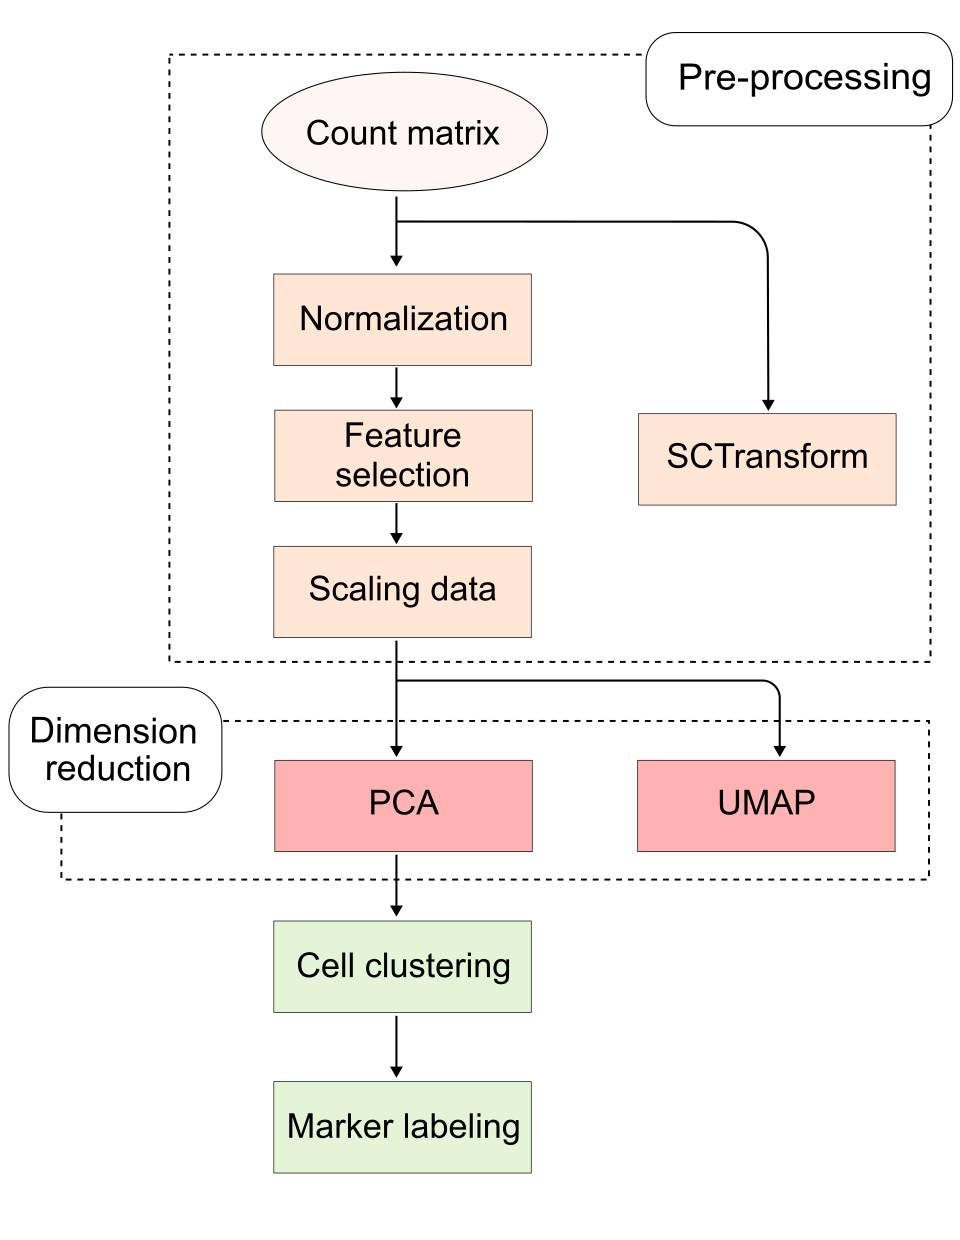
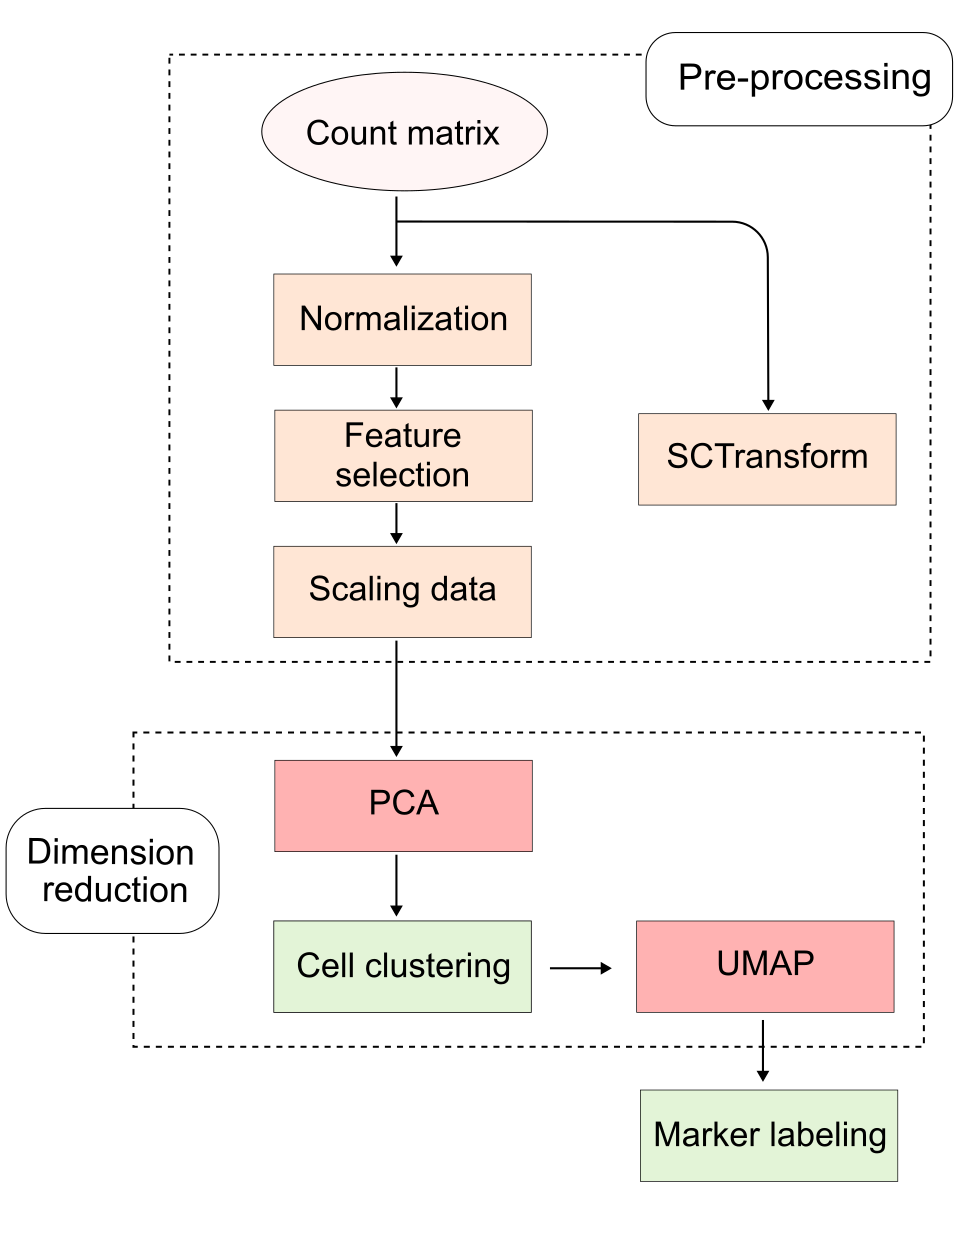
update: tuning content

diff --git a/docs/index.md b/docs/index.md
@@ -5,15 +5,16 @@ description: "Deep dives into Seurat internals"
 
 ## Motivation
 
-[Seurat](https://satijalab.org/seurat/) is a popular standard bioinformatic tool to explore and analyze single cell data. The vignette (tutorial) ["Guided Clustering Tutorial"](https://satijalab.org/seurat/articles/pbmc3k_tutorial) is seemed to be a foundation material for newcomers to get used to analysis steps in this domain.    
+[Seurat](https://satijalab.org/seurat/) is a standard bioinformatic tool used to explore and analyze single-cell RNA sequencing (scRNA-seq) data. Its ["Guided Clustering Tutorial"](https://satijalab.org/seurat/articles/pbmc3k_tutorial) serves as a foundational resource for newcomers learning standard single-cell workflows.
 
-Eventhough the vignette provides a solid scaffold for a primaritive scRNA-seq analysis by displaying the command lines and the brief abstractions, it is still lacked of the thoughtful insight and the midset of using algorithmic and statistic methods. It is an obstacle for someone being curious about the "under-the-hood" as being insufficient in technical foundation.    
+While the tutorial provides a solid scaffold by demonstrating key commands and high-level concepts, it lacks deep explanations of the underlying statistical and algorithmic methods. This creates a gap for readers who want to understand what happens "under the hood".
 
-I write this blog as a extension of the Seurat vignette, exploring the proceeses run underneath the "easy-going" commands and delivering their reasoning.  
+This blog serves as an extension of the Seurat vignette, detailing the processes running behind these straightforward commands and explaining the reasoning behind each step.
+
 
 ## Content
 
-The content in this blog strictly follows typical functional steps in Seurat vignette by showing the command used in the tutorial and explaining the underlying processes of each step. 
+The content in this blog strictly follows typical functional steps in the Seurat vignette, breaking down the main command and underlying mechanisms of each step. The method for knitting content of this blog detailed in [Methodology](./method.md). 
 
 ```{image} ./static/Overview.png
 :alt: Overview
@@ -21,8 +22,8 @@ The content in this blog strictly follows typical functional steps in Seurat vig
 :align: center
 ```
 
-First, the count matrix from the 10X Genomics comes through pre-processing stages to reduces technical noise and unexpected variance, it includes three main steps: [Normalization](./normalization.md), [Feature selection](./variable_features.md), and [Scaling data](./scaling.md). Moreover, an alternative approach is performing [SCTransform](./sctransform.md).
+First, the raw count matrix (such as from 10X Genomics) undergoes pre-processing to reduce technical noise and unwanted variance. This traditional pipeline includes three key steps: [Normalization](./normalization.md), [Feature selection](./variable_features.md), and [Scaling data](./scaling.md). Alternatively, [SCTransform](./sctransform.md) can be performed as an all-in-one approach.
 
-Based on purified data, count matrix is performed dimension reduction to pack variation across genes for cells using either Principal Component Analysis (PCA) or Uniform Manifold Approximation and Projection (UMAP). 
+Next, purified matrix is performed Principal Component Analysis (PCA) to capture major axes of biological variation across cells, which facilitates cell clustering. From all of that, Uniform Manifold Approximation and Projection (UMAP) is employed to fine-tuning clusters.  
 
-Finally, projection of cells on PCA principle components is utilized to cluster cells and label marker genes to identify cell types for each cluster.
+Finally, marker genes are identified each cells proving bases for cell-type determination.
